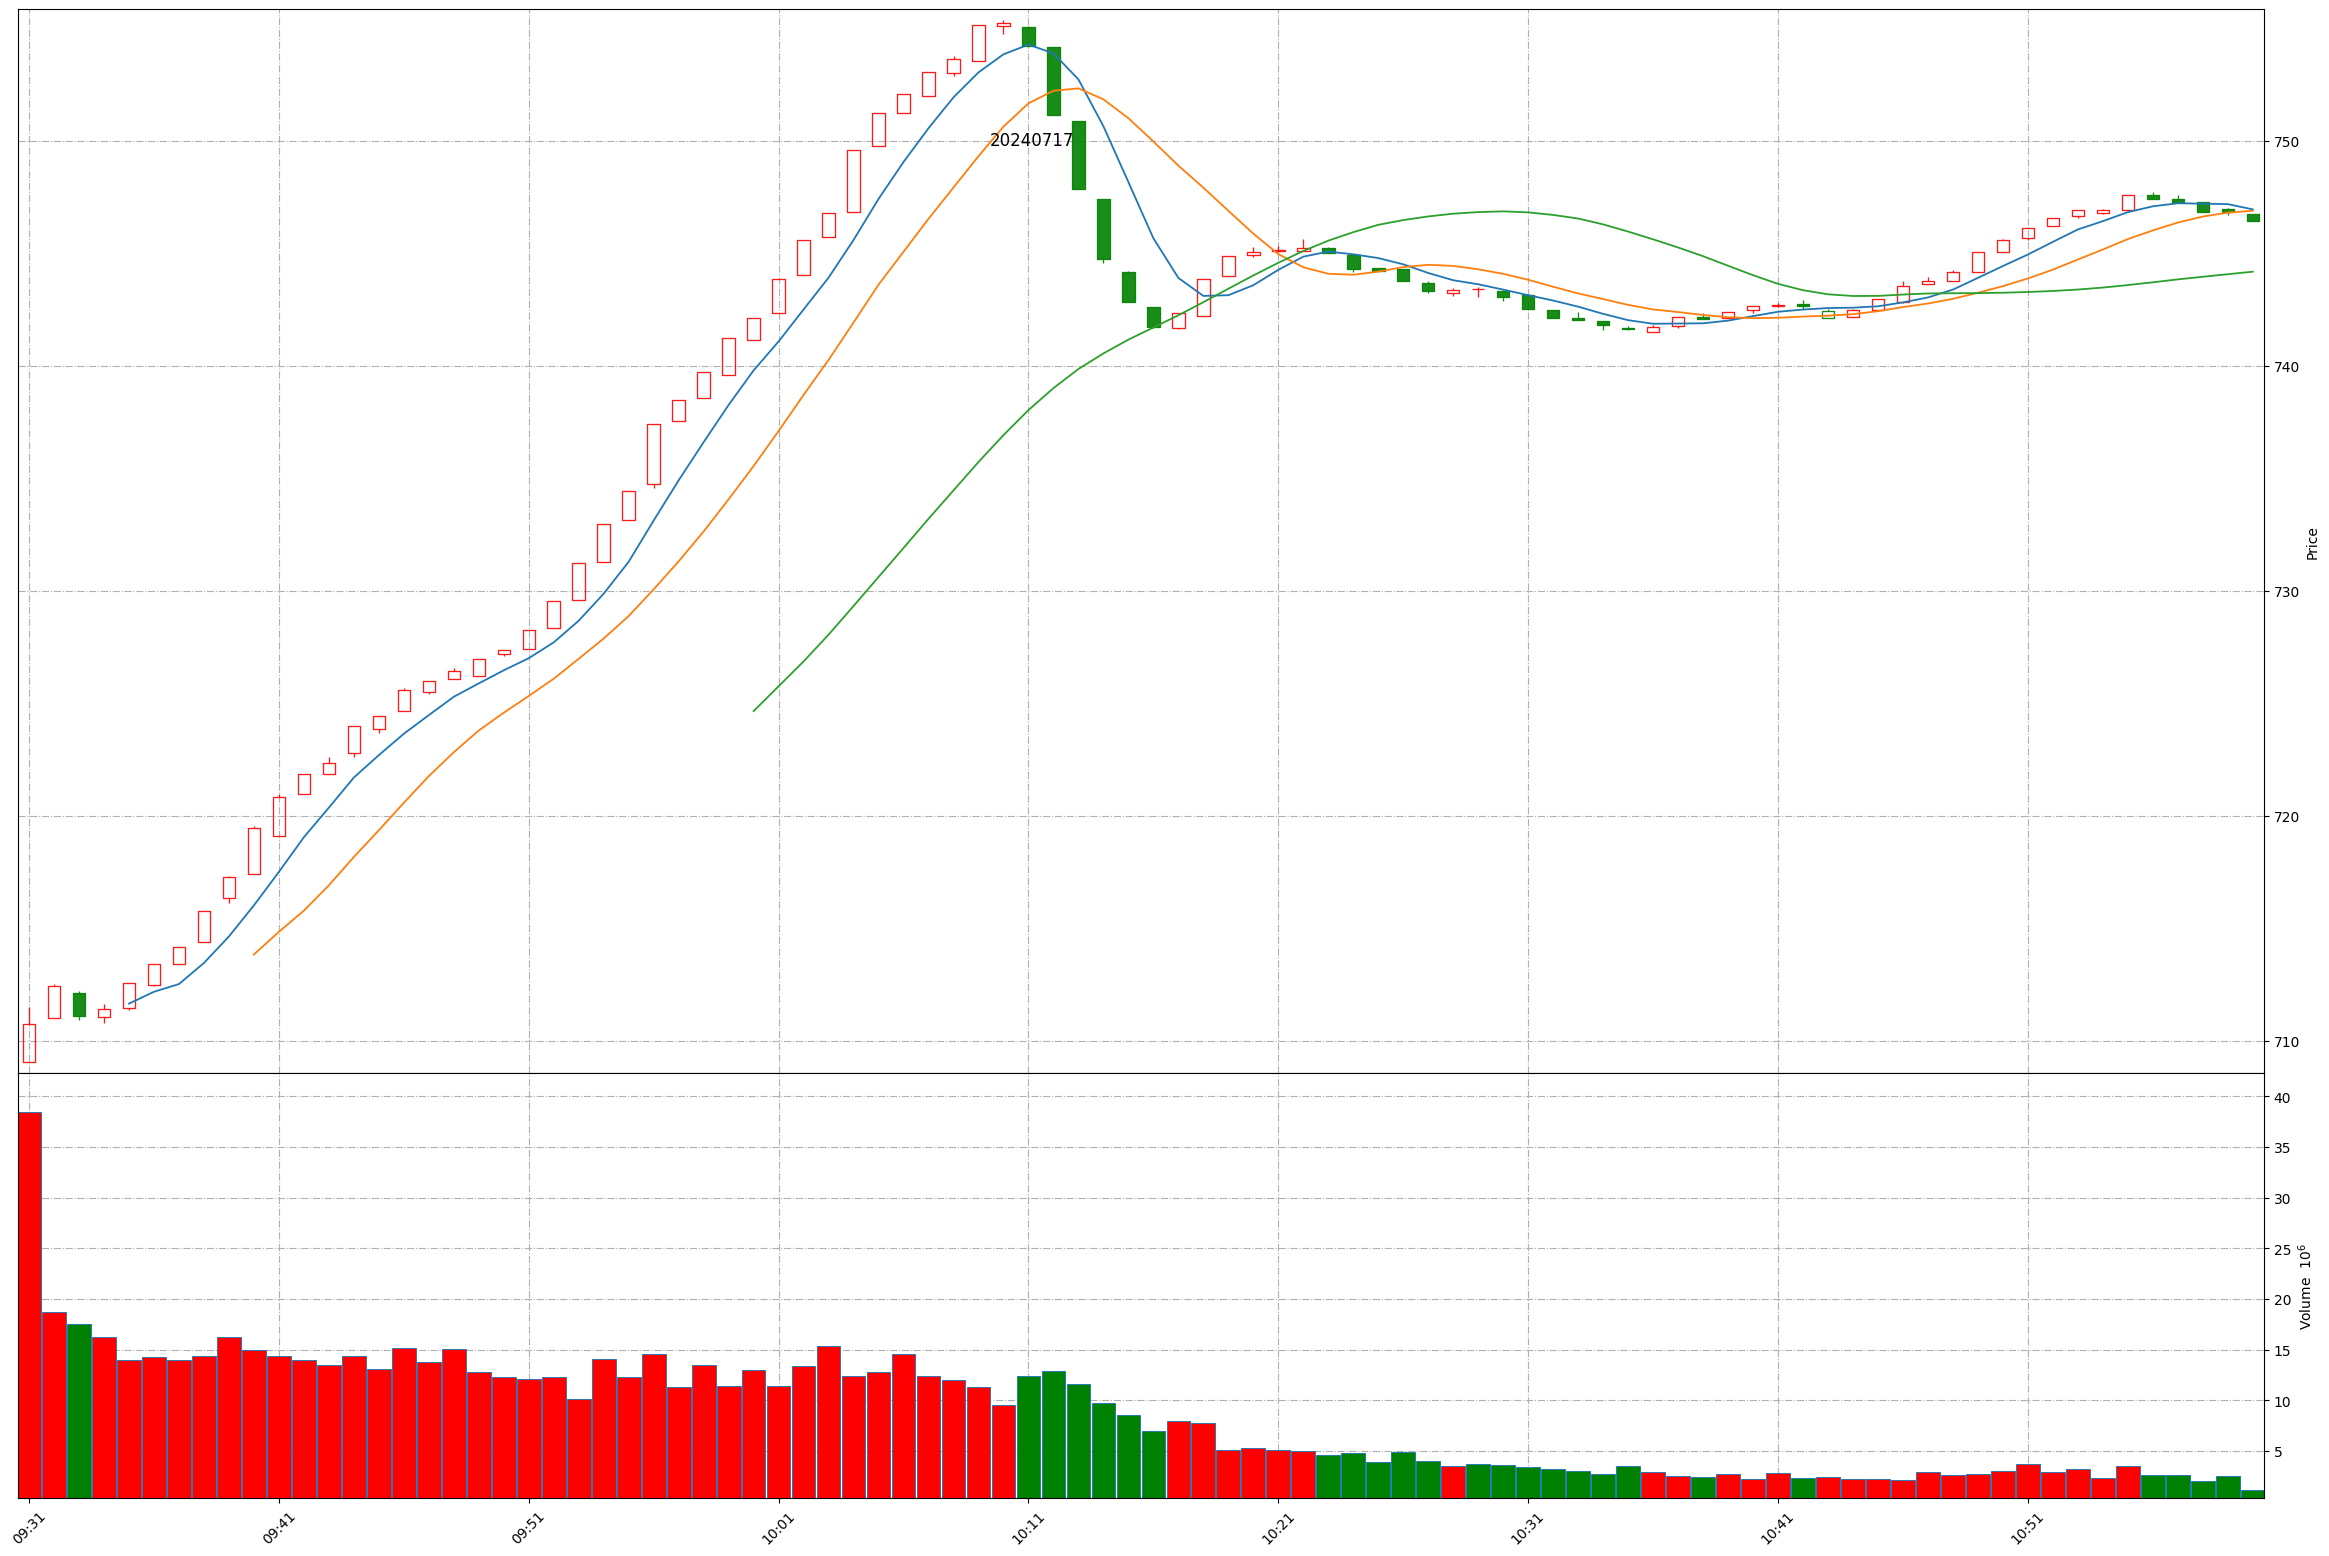
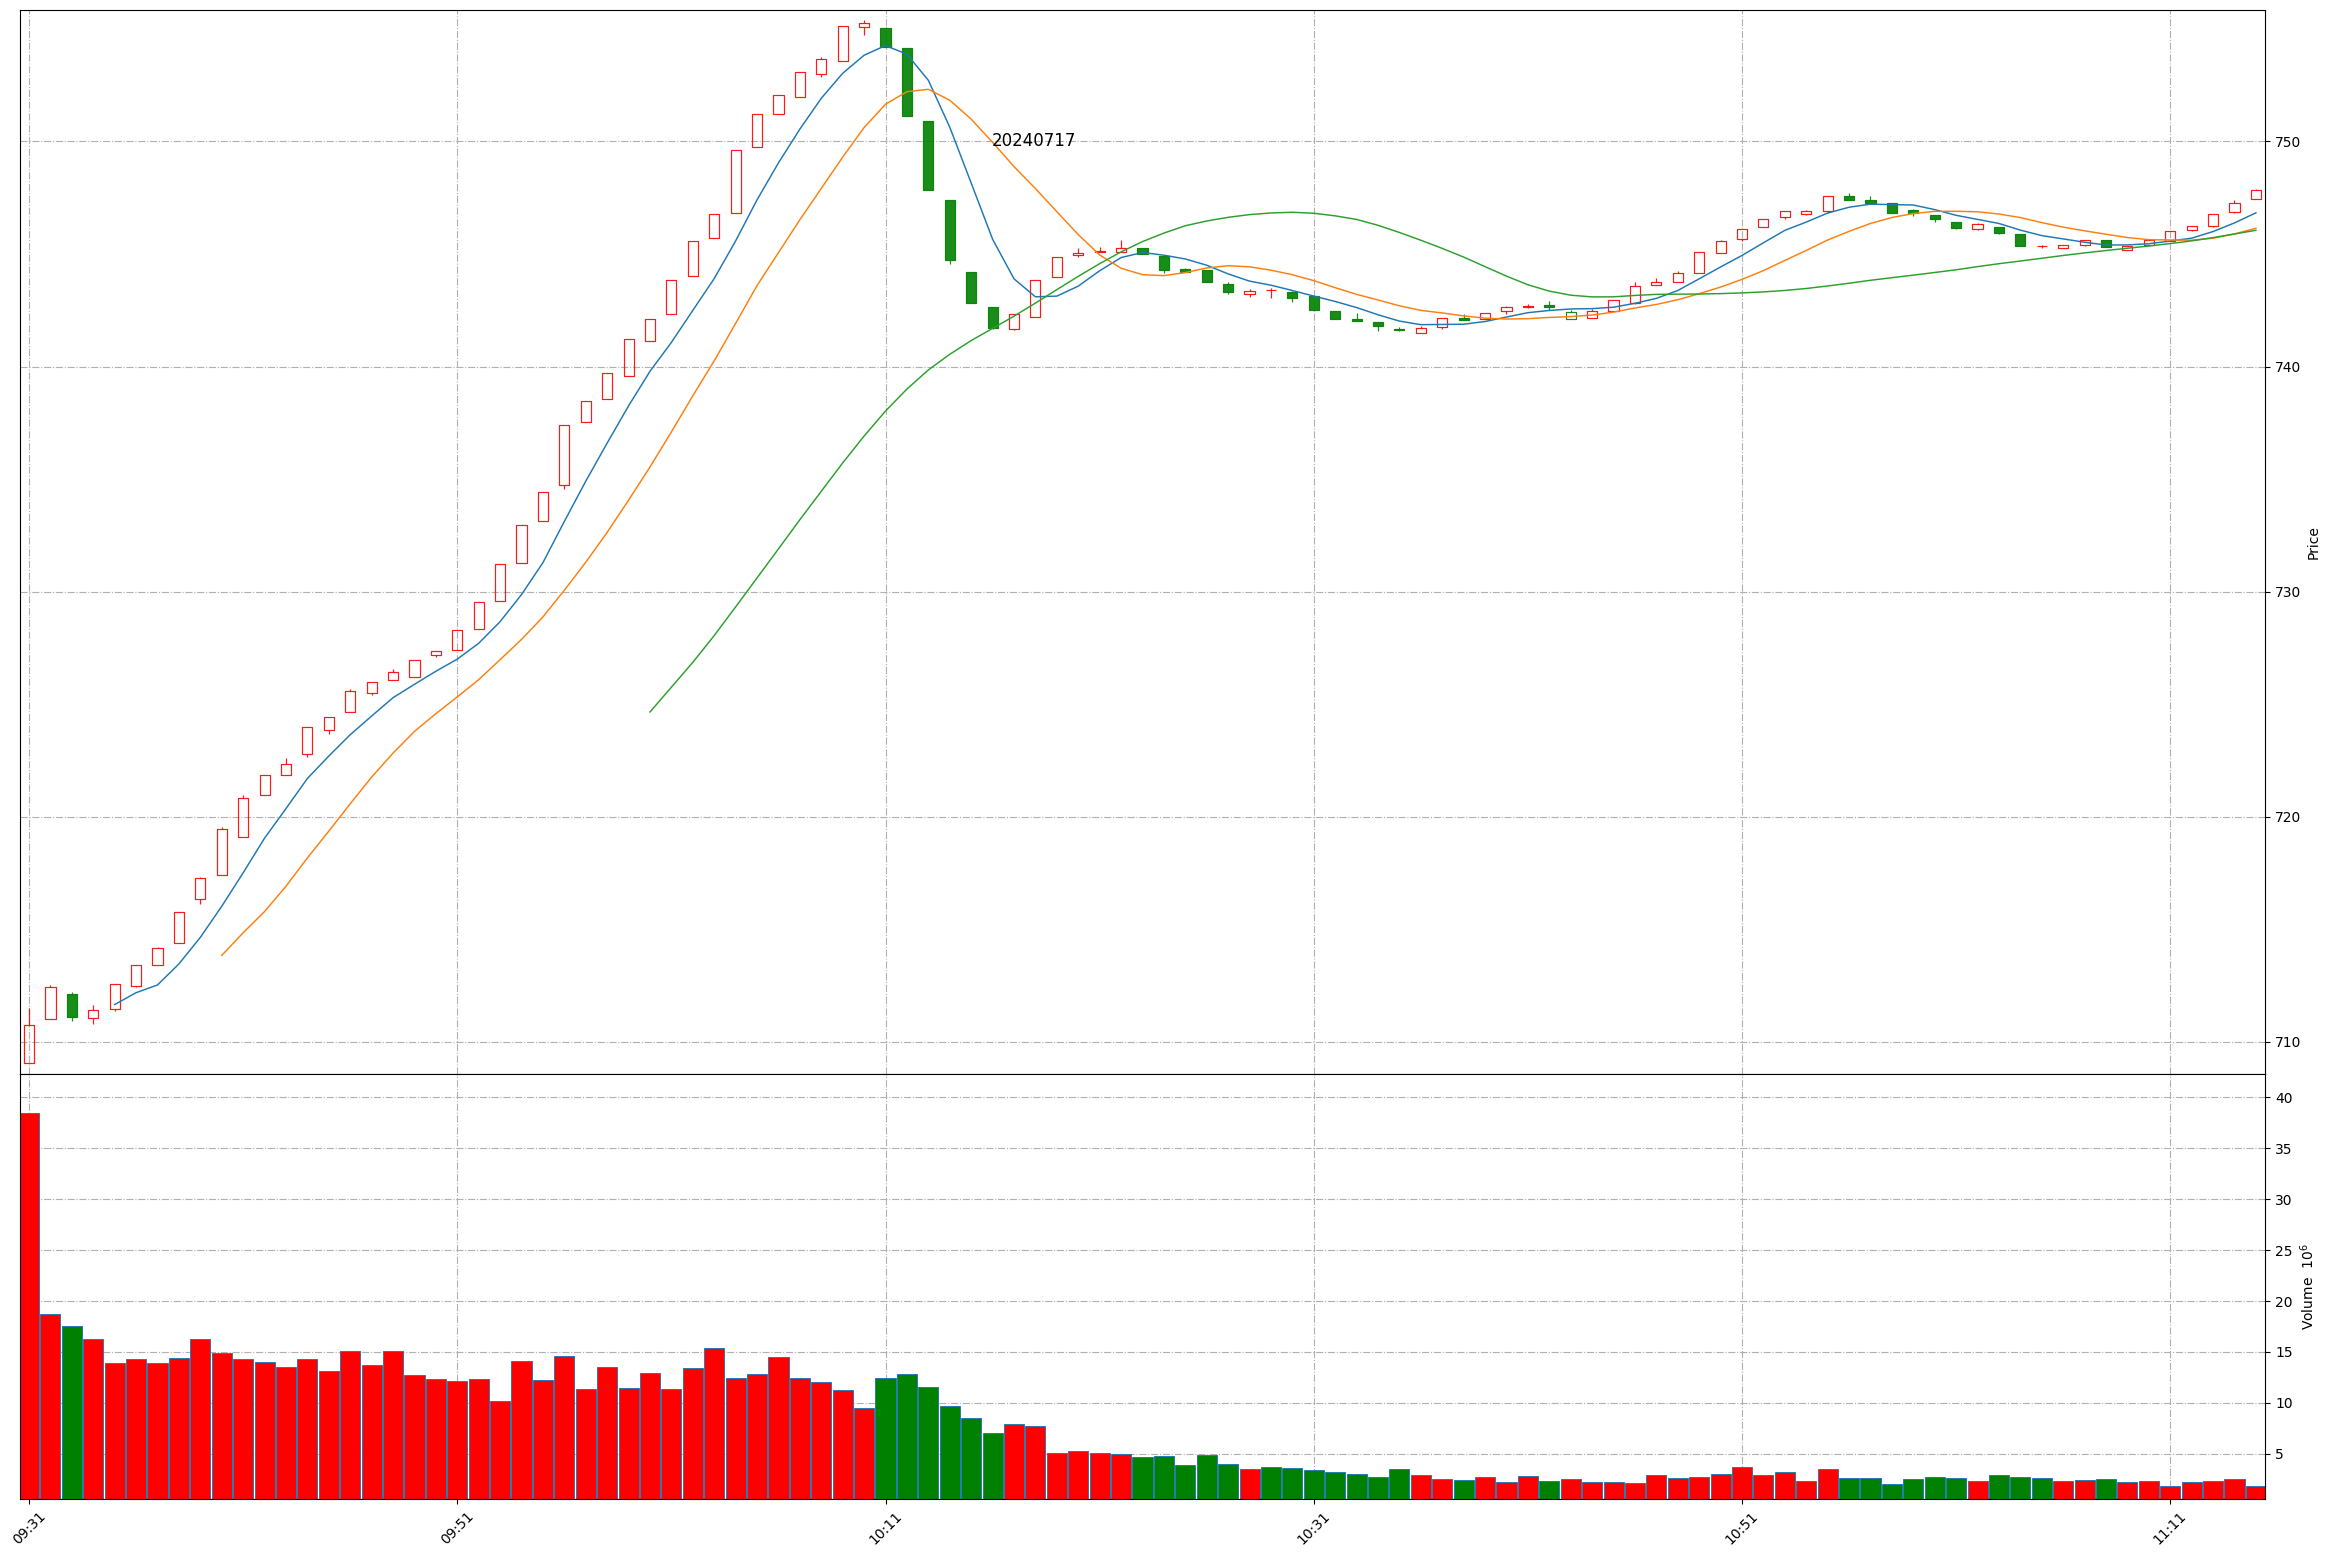
Github action update at 2024-07-17 11:14:51.

diff --git a/README.md b/README.md
@@ -1,11 +1,11 @@
 
 # Daily-A-share-market-quotes 每日 A 股指数（5min 更新）- 20240717
 
-### 上证指数 20240717 10:59
+### 上证指数 20240717 11:14
 ![](./fig/2024/7/20240717-sh000001.png)
 
-### 深证成指 20240717 10:59
+### 深证成指 20240717 11:14
 ![](./fig/2024/7/20240717-sz399001.png)
 
-### 北证50 20240717 10:59
+### 北证50 20240717 11:14
 ![](./fig/2024/7/20240717-bj899050.png)
